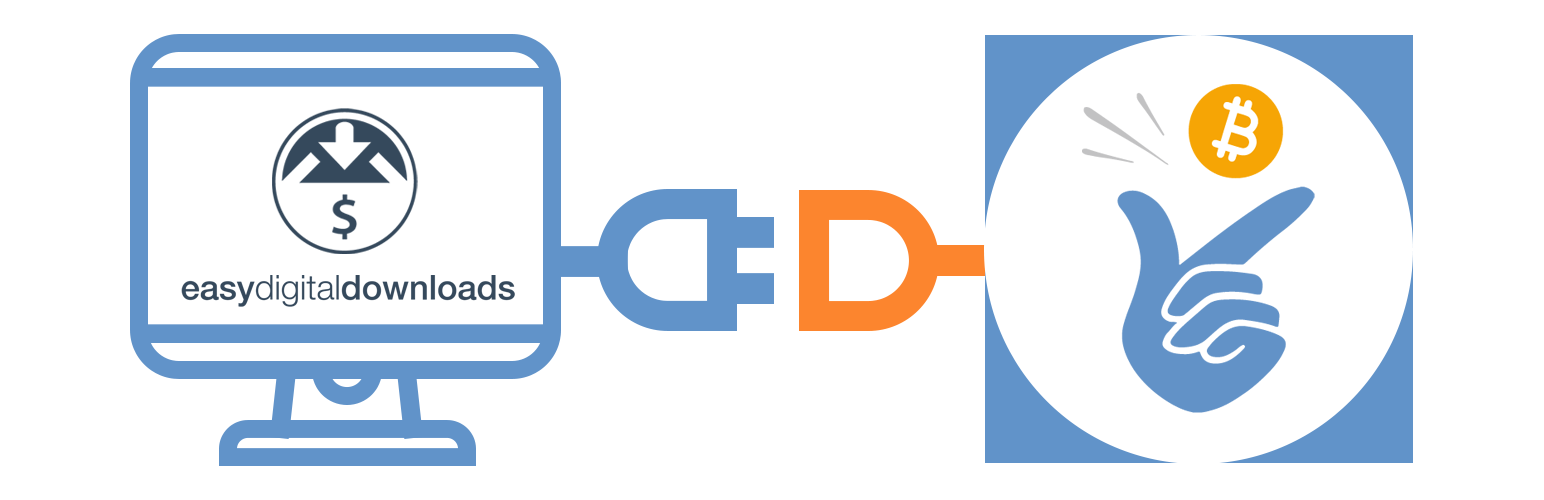
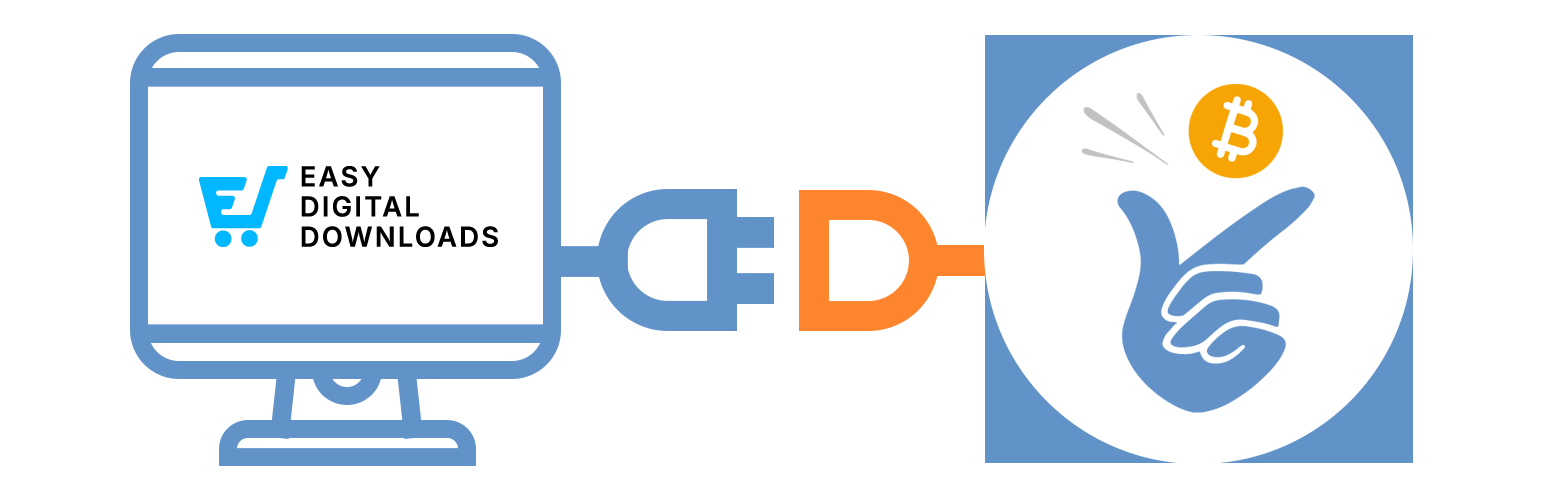
SNAP-2664 WP Add-ons: check and update all the information

Changed region(s): [[0.1244, 0.21, 0.342, 0.51], [0.0933, 0.54, 0.342, 0.6]]

diff --git a/coinsnap-for-easy-digital-downloads.php b/coinsnap-for-easy-digital-downloads.php
@@ -1,9 +1,9 @@
 <?php
 /*
  * Plugin Name:     Bitcoin payment for Easy Digital Downloads
- * Plugin URI:      https://www.coinsnap.io
+ * Plugin URI:      https://coinsnap.io/wp-add-ons/easy-digital-downloads/
  * Description:     With this Bitcoin payment plugin for Easy Digital Downloads you can now offer downloads for Bitcoin right in the Easy Digital Downloads plugin!
- * Version:         1.3.2
+ * Version:         1.3.3
  * Author:          Coinsnap
  * Author URI:      https://coinsnap.io/
  * Text Domain:     coinsnap-for-easy-digital-downloads
@@ -11,7 +11,7 @@
  * Requires PHP:    7.4
  * Tested up to:    6.9
  * Requires at least: 5.2
- * EDD tested up to: 3.6.3
+ * EDD tested up to: 3.6.5
  * EDD Pro tested up to: 3.3.5.2
  * License:         GPL2
  * License URI:     https://www.gnu.org/licenses/gpl-2.0.html
@@ -20,7 +20,7 @@
  */ 
 
 defined('ABSPATH') || exit;
-if(!defined('COINSNAPEDD_PLUGIN_VERSION')){ define( 'COINSNAPEDD_PLUGIN_VERSION', '1.3.2' ); }
+if(!defined('COINSNAPEDD_PLUGIN_VERSION')){ define( 'COINSNAPEDD_PLUGIN_VERSION', '1.3.3' ); }
 if(!defined('COINSNAPEDD_REFERRAL_CODE')){ define( 'COINSNAPEDD_REFERRAL_CODE', 'D18876' ); }
 if(!defined('COINSNAPEDD_PHP_VERSION')){ define( 'COINSNAPEDD_PHP_VERSION', '7.4' ); }
 if(!defined('COINSNAPEDD_WP_VERSION')){ define( 'COINSNAPEDD_WP_VERSION', '5.2' ); }
@@ -29,10 +29,7 @@ if(!defined('COINSNAP_API_PATH')){define( 'COINSNAP_API_PATH', '/api/v1/');}
 if(!defined('COINSNAP_SERVER_PATH')){define( 'COINSNAP_SERVER_PATH', 'stores' );}
 if(!defined('COINSNAP_CURRENCIES')){define( 'COINSNAP_CURRENCIES', array("EUR","USD","SATS","BTC","CAD","JPY","GBP","CHF","RUB") );}
 
-
-
 require_once(dirname(__FILE__) . "/library/loader.php");
-
 use Coinsnap\Client\Webhook;
 
 final class CoinsnapEDD {
@@ -53,9 +50,9 @@ final class CoinsnapEDD {
             add_filter('edd_settings_gateways', array( $this, 'settings_gateways' ), 1, 1);
             add_filter('edd_gateway_settings_url_coinsnap', array( $this, 'edd_gateway_settings_url' ), 1, 1);
             add_action('admin_notices', array($this, 'coinsnap_notice'));
-            add_action( 'admin_enqueue_scripts', [$this, 'enqueueAdminScripts'] );
-            add_action( 'wp_ajax_coinsnapedd_connection_handler', [$this, 'coinsnapConnectionHandler'] );
-            add_action( 'wp_ajax_coinsnapedd_btcpay_server_apiurl_handler', [$this, 'btcpayApiUrlHandler']);
+            add_action('admin_enqueue_scripts', [$this, 'enqueueAdminScripts'] );
+            add_action('wp_ajax_coinsnapedd_connection_handler', [$this, 'coinsnapConnectionHandler'] );
+            add_action('wp_ajax_coinsnapedd_btcpay_server_apiurl_handler', [$this, 'btcpayApiUrlHandler']);
         }
         
 	add_action('edd_coinsnap_cc_form', '__return_false');        	
@@ -436,10 +433,10 @@ final class CoinsnapEDD {
    
     public function register_gateway($gateways){
         $gateways[$this->gateway_id] = array(
-                'admin_label'    => __('Coinsnap', 'coinsnap-for-easy-digital-downloads'),
-                'checkout_label' => __('Bitcoin + Lightning', 'coinsnap-for-easy-digital-downloads'),
-                'supports'       => array( 'buy_now' )
-            );
+            'admin_label'    => __('Coinsnap', 'coinsnap-for-easy-digital-downloads'),
+            'checkout_label' => __('Bitcoin + Lightning', 'coinsnap-for-easy-digital-downloads'),
+            'supports'       => array('buy_now')
+        );
 
         return $gateways;
     }
@@ -505,14 +502,14 @@ final class CoinsnapEDD {
             
             //  BTCPay fields
             'btcpay_server_url' => array(
-                    'id' => 'btcpay_server_url',
-                    'name'       => __( 'BTCPay server URL*', 'coinsnap-for-easy-digital-downloads' ),
-                    'type'        => 'text',
-                    'desc'        => __( '<a href="#" class="btcpay-apikey-link">Check connection</a>', 'coinsnap-for-easy-digital-downloads' ).'<br/><br/><button class="button btcpay-apikey-link" type="button" id="pmpro_btcpay_wizard_button" target="_blank">'. __('Generate API key','coinsnap-for-easy-digital-downloads').'</button>',
-                    'std'     => '',
+                'id' => 'btcpay_server_url',
+                'name'       => __( 'BTCPay server URL*', 'coinsnap-for-easy-digital-downloads' ),
+                'type'        => 'text',
+                'desc'        => __( '<a href="#" class="btcpay-apikey-link">Check connection</a>', 'coinsnap-for-easy-digital-downloads' ).'<br/><br/><button class="button btcpay-apikey-link" type="button" id="pmpro_btcpay_wizard_button" target="_blank">'. __('Generate API key','coinsnap-for-easy-digital-downloads').'</button>',
+                'std'     => '',
                 'size' => 'regular',
-                    'class' => 'btcpay'
-                ),
+                'class' => 'btcpay'
+            ),
             
             'btcpay_store_id' => array(
                     'id'   => 'btcpay_store_id',

diff --git a/README.md b/README.md
@@ -8,7 +8,7 @@
 * Contributors: coinsnap
 * Tags: Lightning, Lightning Payment, SATS, Satoshi sats, bitcoin, Wordpress, Easy Digital Downloads, payment gateway, accept bitcoin, bitcoin plugin, bitcoin payment processor, bitcoin e-commerce, Lightning Network, cryptocurrency, lightning payment processor
 * Tested up to: 6.9
-* Stable tag: 1.3.2
+* Stable tag: 1.3.3
 * License:         GPL2
 * License URI:     https://www.gnu.org/licenses/gpl-2.0.html
 
@@ -236,3 +236,7 @@ The Bitcoin + Lightning payment page is now displayed, offering the payer the op
 #### 1.3.2 :: 2025-12-28
 * Compatibility with Easy Digital Downloads 3.6.3 is tested.
 * Updated PHP files protection
+
+#### 1.3.3 :: 2025-03-06
+* Compatibility with Easy Digital Downloads 3.6.4 - 3.6.5 is tested.
+* Updated graphic files
